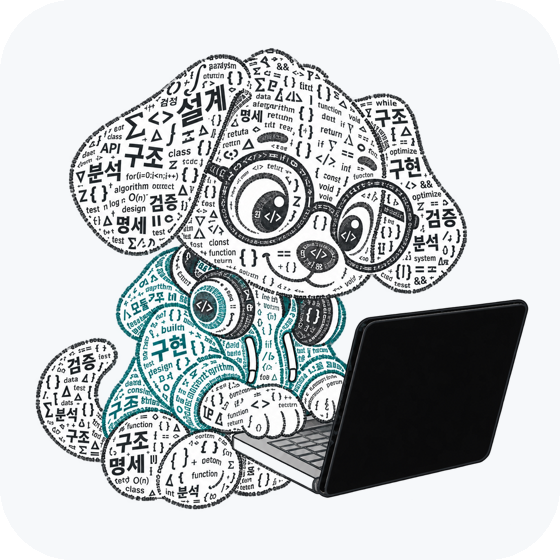
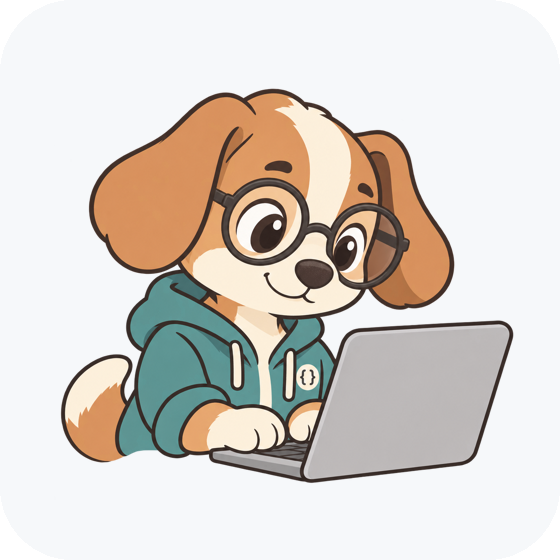
docs(readme): 마스코트를 일러스트 버전으로 교체
- 사용자가 전달한 플랫 일러스트(안경, 청록색 후드티, 노트북)로 mascot.png 교체
- 다크 모드용 mascot-dark.png와 비교 이미지 2개 재생성, README 대체 텍스트 수정

diff --git a/README.md b/README.md
@@ -1,7 +1,7 @@
 <p align="center">
   <picture>
     <source media="(prefers-color-scheme: dark)" srcset="docs/assets/mascot-dark.png">
-    <img src="docs/assets/mascot.png" width="220" alt="DevDog 마스코트. 코드 기호와 설계·구조·검증 같은 단어로 채워진, 안경과 헤드폰을 착용하고 노트북 앞에 앉은 강아지">
+    <img src="docs/assets/mascot.png" width="220" alt="DevDog 마스코트. 안경을 쓰고 청록색 후드티를 입은 채 노트북으로 작업하는 강아지">
   </picture>
 </p>
 
